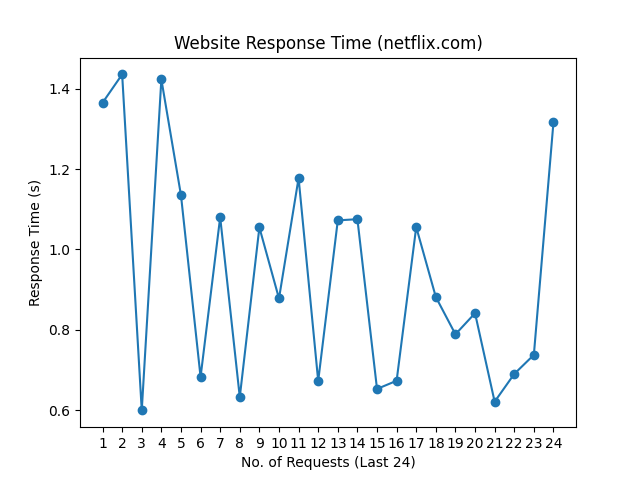
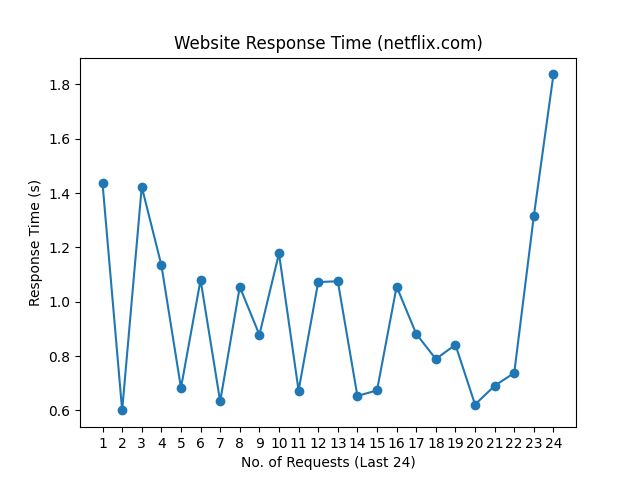
update README.md, history and graph

diff --git a/README.md b/README.md
@@ -1,10 +1,10 @@
 # Web Monitoring
 
-Last Checked: 24/02/2025 08:21
+Last Checked: 25/02/2025 08:21
 
 | Website | Response Time (s) | Status | Avg Uptime (%) |
 |---------|-------------------|--------|----------------|
 | www.thiswebsiteisdown.net | 0 <br> <img src="graph/thiswebsiteisdown.net.png" alt="Graph" width="200" height="200">  | ❌ Down | 0.00 |
-| www.netflix.com | 1.315899 <br> <img src="graph/netflix.com.png" alt="Graph" width="200" height="200">  | ✅ Up | 99.82 |
-| www.google.com | 0.141960 <br> <img src="graph/google.com.png" alt="Graph" width="200" height="200">  | ✅ Up | 100.00 |
-| www.facebook.com | 0.361446 <br> <img src="graph/facebook.com.png" alt="Graph" width="200" height="200">  | ✅ Up | 100.00 |
+| www.netflix.com | 1.836454 <br> <img src="graph/netflix.com.png" alt="Graph" width="200" height="200">  | ✅ Up | 99.82 |
+| www.google.com | 0.113115 <br> <img src="graph/google.com.png" alt="Graph" width="200" height="200">  | ✅ Up | 100.00 |
+| www.facebook.com | 0.541255 <br> <img src="graph/facebook.com.png" alt="Graph" width="200" height="200">  | ✅ Up | 100.00 |
